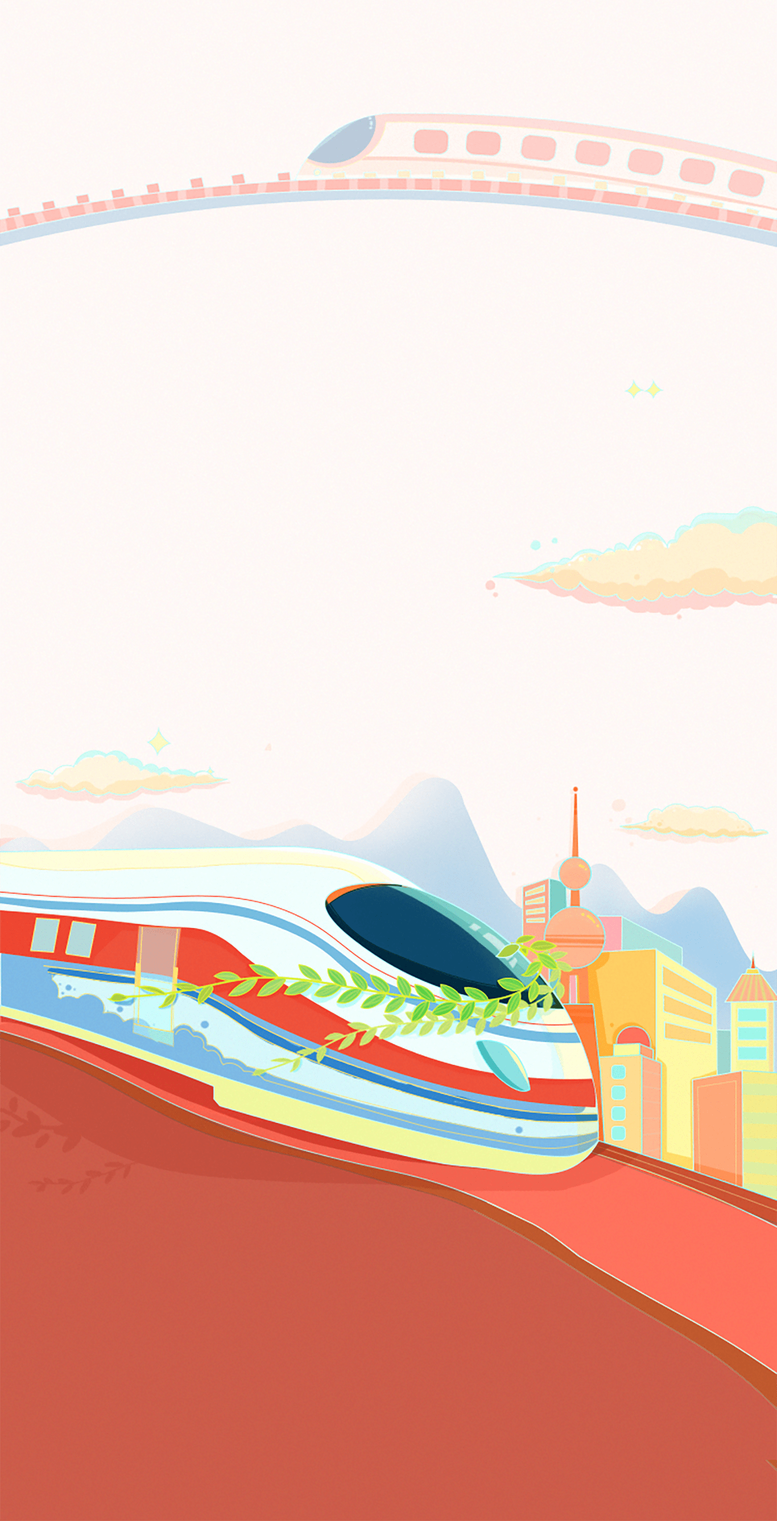
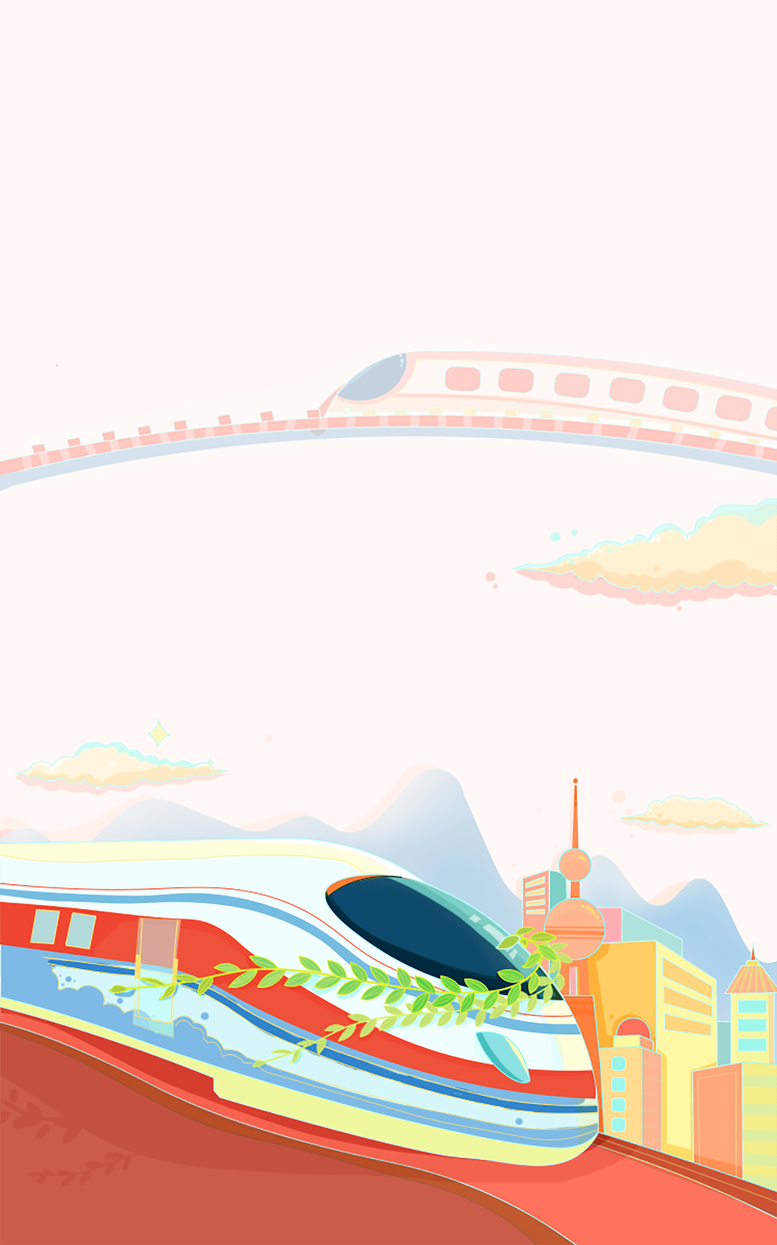
feat: 首页样式修改

diff --git a/src/views/Home.vue b/src/views/Home.vue
@@ -4,8 +4,8 @@
     <div class="user_info" v-show="isShowUserInfo"></div>
     <header>
       <div class="icon">
-        <div class="school"></div>
         <div class="study"></div>
+        <div class="school"></div>
         <div class="redrock"></div>
       </div>
       <div class="user" @click="showUserInfo(true)"></div>
@@ -15,7 +15,7 @@
       <div class="start"></div>
     </main>
     <footer>
-      <p class="ref">重庆邮电大学、市学联联合出品</p>
+      <p class="ref">重庆邮电大学、重庆市学生联合会联合出品</p>
       <p class="ref">@红岩网校工作站出品</p>
     </footer>
   </div>
@@ -101,9 +101,9 @@ export default {
   main {
     width: 100%;
     .title {
-      margin: 114px auto 141px;
-      width: 702px;
-      height: 239px;
+      margin: 21px auto 271px;
+      width: 672px;
+      height: 201px;
       background-image: url(~@assets/images/home/title.png);
       background-size: contain;
       background-repeat: no-repeat;
@@ -122,7 +122,8 @@ export default {
     margin: auto 0 0;
     text-align: center;
     font-size: 24px;
-    color: #f5a699;
+    color: #ffb5a9;
+    font-weight: 500;
     .ref {
       margin-bottom: 16px;
     }

diff --git a/src/assets/css/reset.css b/src/assets/css/reset.css
@@ -383,3 +383,10 @@ menu {
   margin: 0;
   padding: 0;
 }
+
+body {
+  background-color: #fff;
+  font-family: -apple-system, BlinkMacSystemFont, Helvetica Neue, PingFang SC,
+    Microsoft YaHei, Source Han Sans SC, Noto Sans CJK SC, WenQuanYi Micro Hei,
+    sans-serif;
+}
